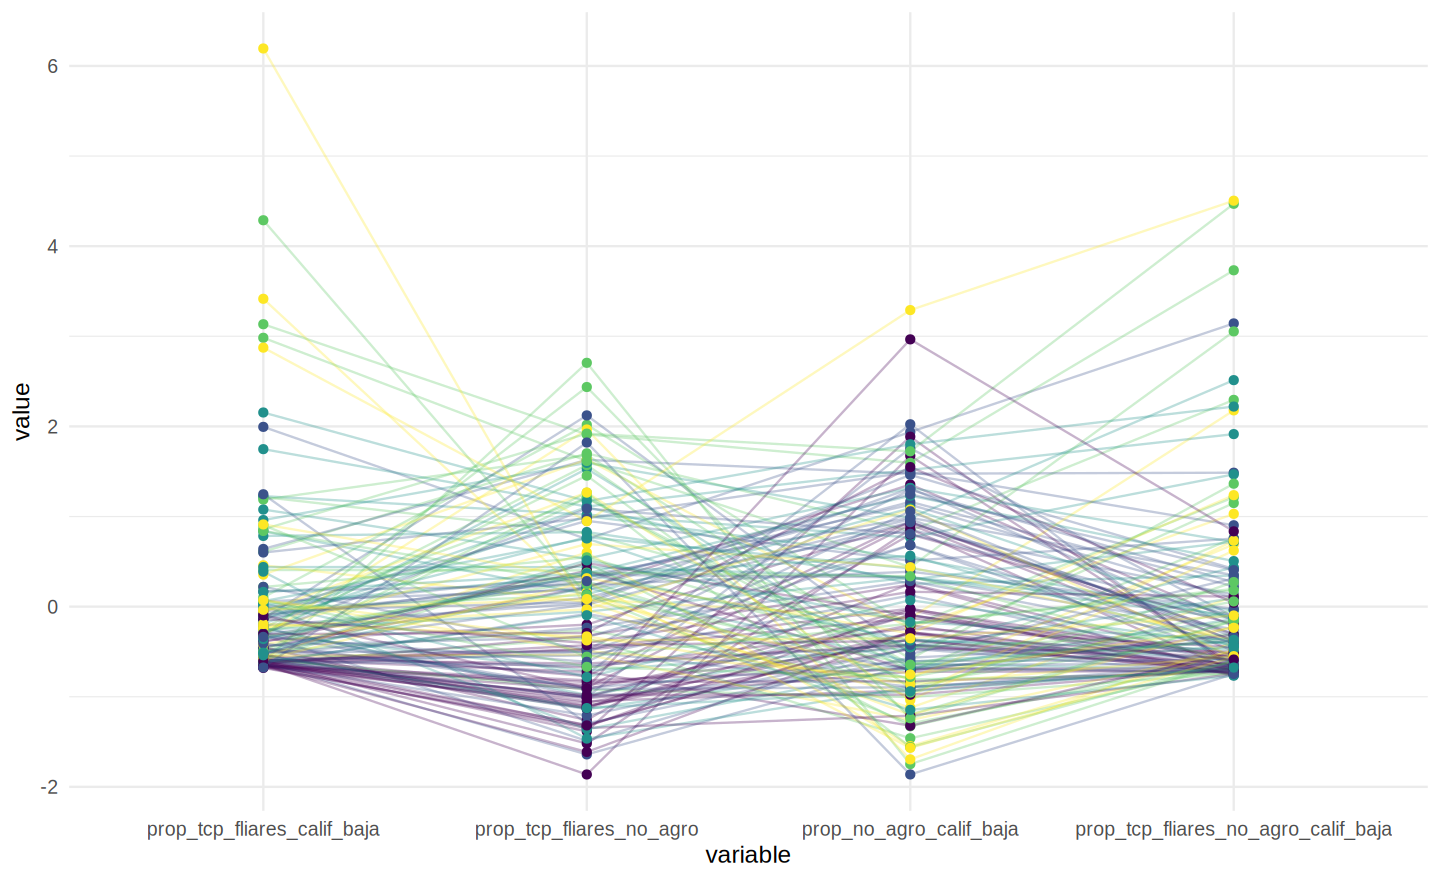
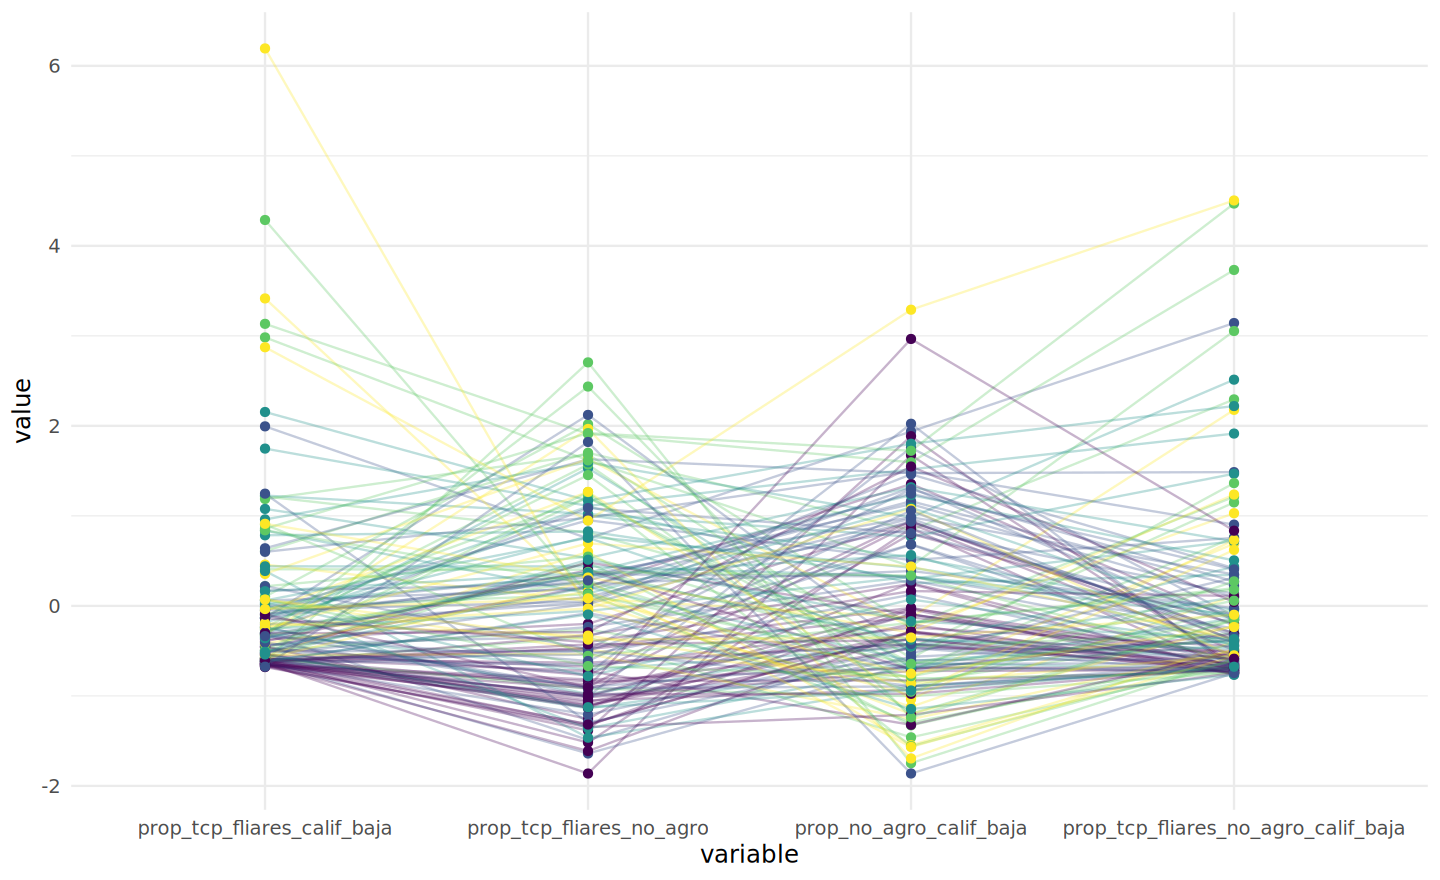
Actualiza las tablas de §3.1 con marginales OIT y estimación IPF
- Las tres tablas (cluster, ingreso, región) pasan a tener cuatro columnas:
  % TCP/TF calif. baja, % TCP/TF no agro y % no agro calif. baja (marginales
  OIT) y % TCP/TF no agro calif. baja (estimación IPF), con valores tomados de
  data/estimacion/tcp_indicadores_por_*.csv.
- El % de TCP/TF total por cluster queda en una nota al pie.
- Corrige redondeos: C2 3,5% y Europa y Asia Central 0,4%.
- Regenera fig_014_parcoord_clusters.png (misma corrida de 014, solo re-render).

diff --git a/reports/informe_resultados.md b/reports/informe_resultados.md
@@ -382,45 +382,49 @@ reemplaza el criterio de §3.1, §3.3 y §3.4.
 
 **Por cluster PIMSA**
 
-| Cluster | TCP/TF totales | TCP/TF calif. baja | TCP/TF no agro | **TCP/TF no agro calif. baja** |
+| Cluster | % TCP/TF calif. baja (marginal OIT) | % TCP/TF no agro (marginal OIT) | % no agro calif. baja (marginal OIT) | **% TCP/TF no agro calif. baja (estimación IPF)** |
 |---|---:|---:|---:|---:|
-| C1. Cap. avanzado | 9,5% | 0,7% | 8,2% | **0,6%** |
-| C2. Cap. extensión reciente c/desarrollo profundidad | 28,3% | 3,6% | 21,6% | **2,1%** |
-| C3. Cap. extensión c/peso campo | 43,0% | 5,2% | 21,5% | **1,9%** |
-| C4. Cap. escasa extensión c/peso campo | 70,2% | 17,8% | 29,4% | **6,2%** |
-| C5. Pequeña propiedad en el campo | 79,3% | 11,7% | 19,0% | **3,1%** |
+| C1. Cap. avanzado | 0,7% | 8,2% | 10,2% | **0,6%** |
+| C2. Cap. extensión reciente c/desarrollo profundidad | 3,5% | 21,6% | 12,6% | **2,1%** |
+| C3. Cap. extensión c/peso campo | 5,2% | 21,5% | 12,0% | **1,9%** |
+| C4. Cap. escasa extensión c/peso campo | 17,8% | 29,4% | 10,9% | **6,2%** |
+| C5. Pequeña propiedad en el campo | 11,7% | 19,0% | 6,7% | **3,1%** |
+
+*(El % de TCP/TF total, de C1 a C5, es 9,5%, 28,3%, 43,0%, 70,2%, 79,3%; está en `data/estimacion/tcp_indicadores_por_cluster.csv`.)*
 
 **Por grupo de ingreso**
 
-| Grupo | TCP/TF calif. baja | TCP/TF no agro | **TCP/TF no agro calif. baja** |
-|---|---:|---:|---:|
-| 01 Altos ingresos | 1,0% | 10,0% | **0,8%** |
-| 02 Medios-altos ingresos | 3,8% | 16,9% | **1,8%** |
-| 03 Medios-bajos ingresos | 14,3% | 27,2% | **5,0%** |
-| 04 Bajos ingresos | 11,6% | 20,6% | **3,2%** |
+| Grupo | % TCP/TF calif. baja (marginal OIT) | % TCP/TF no agro (marginal OIT) | % no agro calif. baja (marginal OIT) | **% TCP/TF no agro calif. baja (estimación IPF)** |
+|---|---:|---:|---:|---:|
+| 01 Altos ingresos | 1,0% | 10,0% | 9,9% | **0,8%** |
+| 02 Medios-altos ingresos | 3,8% | 16,9% | 12,6% | **1,8%** |
+| 03 Medios-bajos ingresos | 14,3% | 27,2% | 11,4% | **5,0%** |
+| 04 Bajos ingresos | 11,6% | 20,6% | 6,6% | **3,2%** |
 
 **Por región**
 
-| Región | TCP/TF calif. baja | TCP/TF no agro | **TCP/TF no agro calif. baja** |
-|---|---:|---:|---:|
-| South Asia | 18,4% | 30,4% | **7,1%** |
-| Sub-Saharan Africa | 10,6% | 22,2% | **3,8%** |
-| Latin America & Caribbean | 5,2% | 23,6% | **2,6%** |
-| East Asia & Pacific | 7,3% | 19,3% | **1,6%** |
-| Middle East & North Africa | 3,2% | 17,1% | **1,7%** |
-| Europe & Central Asia | 1,0% | 9,6% | **0,3%** |
-| North America | 0,5% | 6,0% | **0,5%** |
+| Región | % TCP/TF calif. baja (marginal OIT) | % TCP/TF no agro (marginal OIT) | % no agro calif. baja (marginal OIT) | **% TCP/TF no agro calif. baja (estimación IPF)** |
+|---|---:|---:|---:|---:|
+| South Asia | 18,4% | 30,4% | 11,9% | **7,1%** |
+| Sub-Saharan Africa | 10,6% | 22,2% | 8,6% | **3,8%** |
+| Latin America & Caribbean | 5,2% | 23,6% | 13,7% | **2,6%** |
+| East Asia & Pacific | 7,3% | 19,3% | 11,3% | **1,6%** |
+| Middle East & North Africa | 3,2% | 17,1% | 11,7% | **1,7%** |
+| Europe & Central Asia | 1,0% | 9,6% | 8,7% | **0,4%** |
+| North America | 0,5% | 6,0% | 8,6% | **0,5%** |
+
+Todas las columnas son medias ponderadas por empleo, en % del empleo total del país. Las tres primeras salen de los marginales de las tablas bivariadas de la OIT (agregados en `011`/`013`); la cuarta, de la trivariada estimada con IPF. Los valores provienen de `data/estimacion/tcp_indicadores_por_{cluster,ingreso,region}.csv` (salida de `014`).
 
 **Lectura.**
 
 - **Por cluster.** La celda crece al pasar del capitalismo avanzado a los clusters de menor extensión: 0,6% (C1)
   → 2,1% (C2) → 1,9% (C3) → 6,2% (C4), diez veces más entre los extremos. C2 y C3 son prácticamente iguales.
-  C5 (3,1%) queda por debajo de C4 aunque tiene el mayor TCP/TF total (79,3%): ahí el TCP/TF es sobre todo
+  C5 (3,1%) queda por debajo de C4 aunque tiene el mayor TCP/TF total (79,3% del empleo): ahí el TCP/TF es sobre todo
   agrícola (el 76% del total; en C4, el 58%).
 - **Por ingreso.** El máximo está en los países de ingreso medio-bajo (5,0%), no en los de ingreso más bajo
   (3,2%). Los de ingresos altos (0,8%) y medios-altos (1,8%) quedan por debajo.
 - **Por región.** South Asia (7,1%) y Sub-Saharan Africa (3,8%) encabezan, seguidas de Latinoamérica (2,6%).
-  Europa y Asia Central (0,3%) y Norteamérica (0,5%) tienen los valores más bajos.
+  Europa y Asia Central (0,4%) y Norteamérica (0,5%) tienen los valores más bajos.
 
 ### 3.2 Qué hay detrás de las medias: la distribución entre países
 
@@ -552,7 +556,7 @@ original de este informe; no se cotejaron de nuevo contra El Capital, I, cap. 23
 | Implicación de la hipótesis | Qué se observa | Veredicto |
 |---|---|---|
 | (H1) Cuanto menor la capacidad del capital para absorber el empleo no agrario como asalariado, mayor la celda | Cae de 7,8% (menos de 50% de asalariados) a 0,5% (más de 90%); r ponderada −0,75, −0,54 sin India (§3.3) | **Consistente.** Parte de la relación es contable; la composición por calificación es estable salvo en el tramo de India. |
-| (H2) La celda es mínima donde el capital avanzado absorbe en asalariado regular | C1 0,6%; ingresos altos 0,8%; Europa y Asia Central 0,3%; Norteamérica 0,5% (§3.1) | **Consistente.** |
+| (H2) La celda es mínima donde el capital avanzado absorbe en asalariado regular | C1 0,6%; ingresos altos 0,8%; Europa y Asia Central 0,4%; Norteamérica 0,5% (§3.1) | **Consistente.** |
 | (H3) La celda es máxima cuando la separación del campo avanzó pero la absorción es débil: joroba respecto del peso del agro | Sube hasta 30–50% de agro (5,4%) y baja con más de 50% (2,9%) (§3.3) | **Consistente en la forma**; la ubicación del pico depende de India (sin ella, entre 15 y 30%). |
 | (H4) Donde el campo todavía retiene a la mayoría, la superpoblación es sobre todo latente y la celda es menor | C5 3,1% (con 76% de su TCP/TF en la agricultura) frente a C4 6,2%; ingresos bajos 3,2% frente a medios-bajos 5,0% (§3.1) | **Consistente.** |
 
